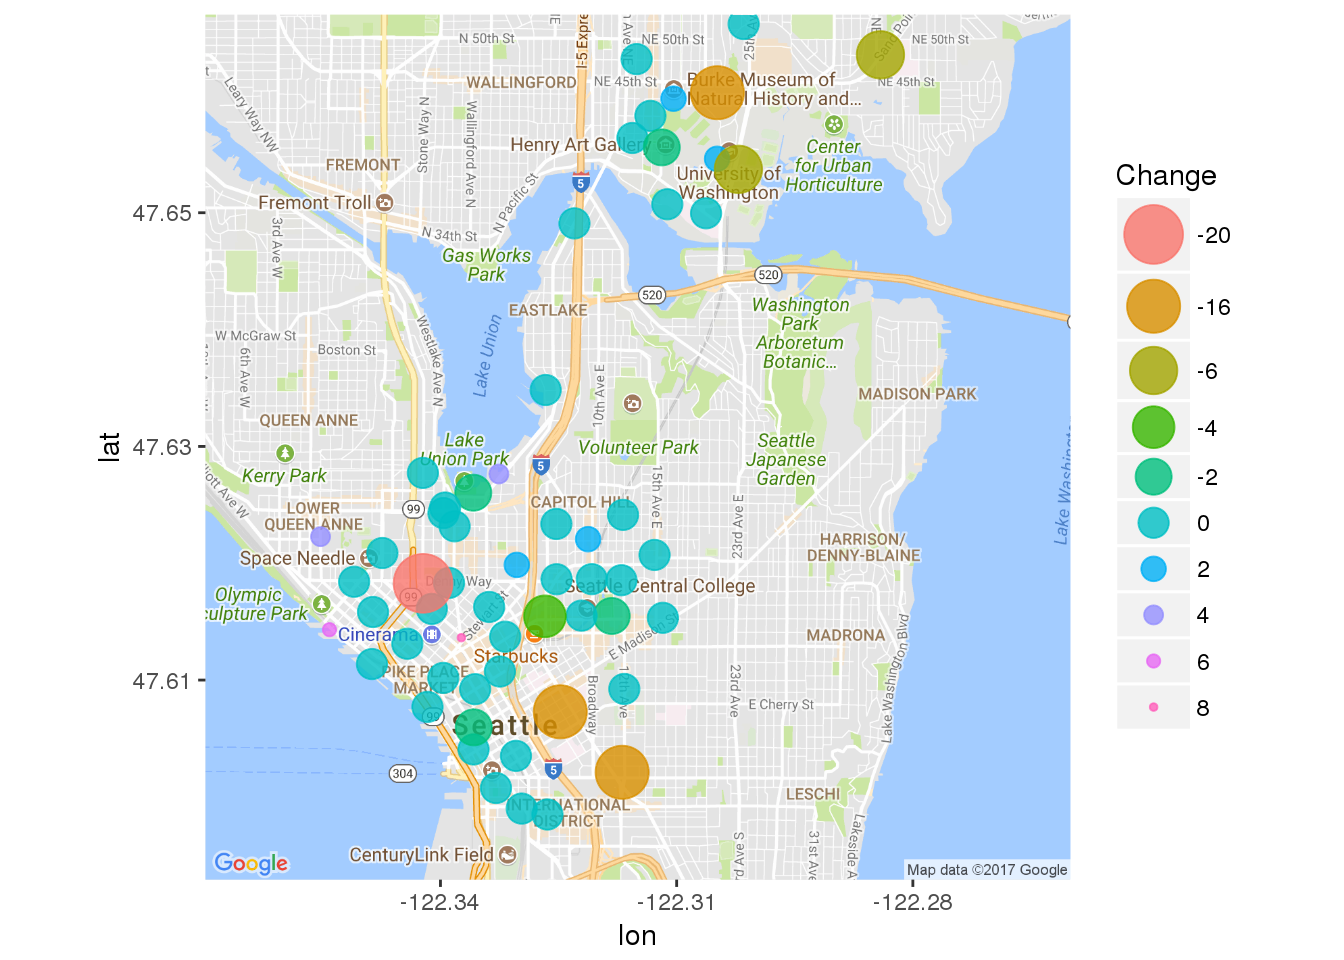
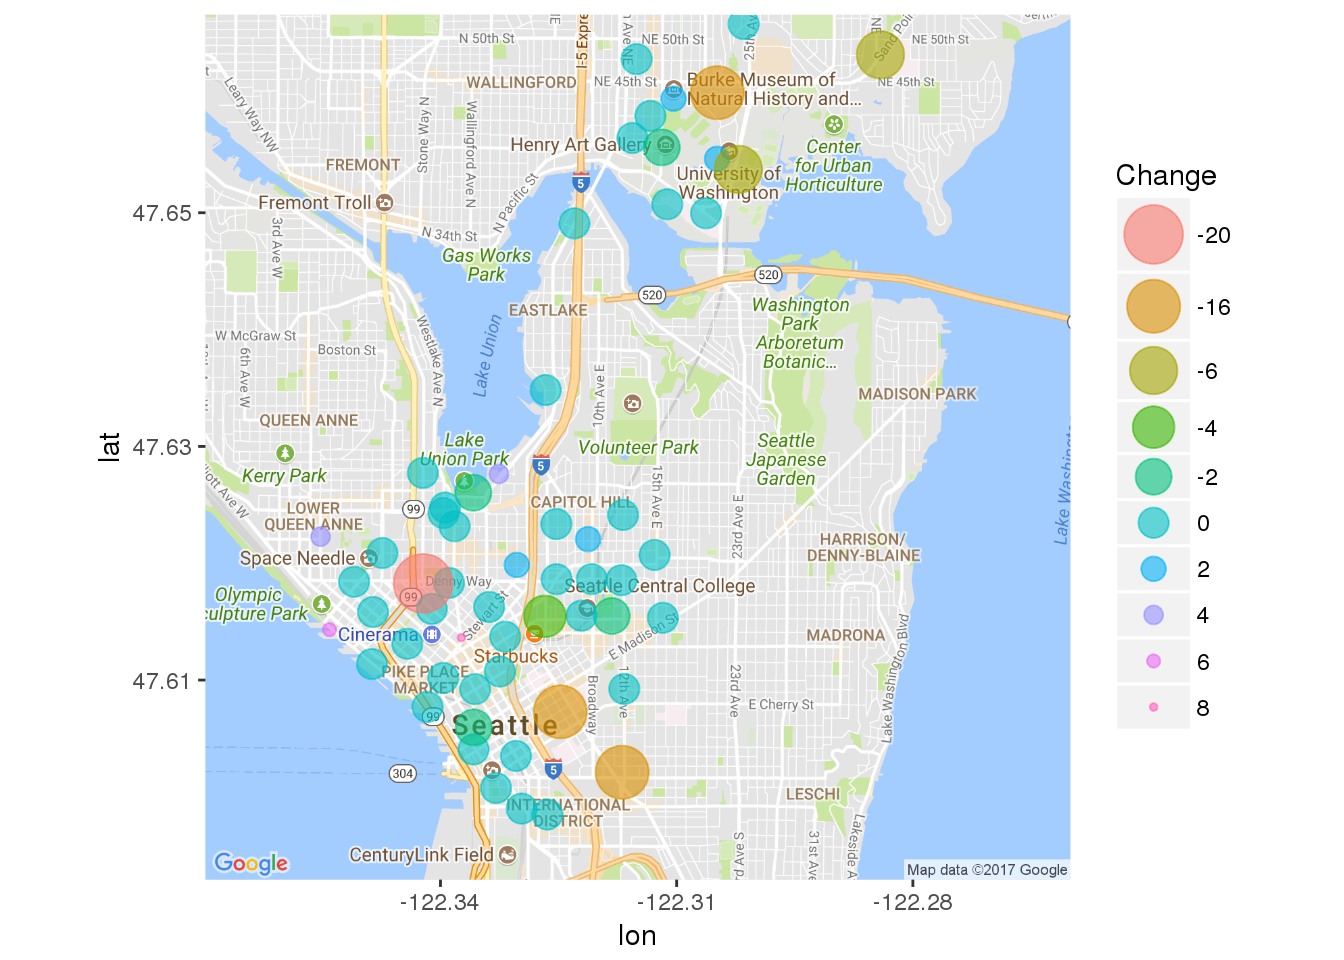
fuck this

diff --git a/alan.html b/alan.html
@@ -339,8 +339,6 @@ weather &lt;- read.csv(file = &quot;weather.csv&quot;, header = TRUE,
 <h2><span class="header-section-number">2.1</span> Exploring the Stations Dataset</h2>
 <p>Since the “Stations” dataset was the first one I imported, let’s start with a little exploration there. First of all, how many unique stations are we dealing with?</p>
 <pre class="r"><code>station %&gt;% summarise(n_distinct(station_id))</code></pre>
-<pre><code>Warning in summarise_impl(.data, dots): &#39;.Random.seed&#39; is not an integer
-vector but of type &#39;NULL&#39;, so ignored</code></pre>
 <pre><code>  n_distinct(station_id)
 1                     58</code></pre>
 <p>Wow! 58 different stations! Let’s take a quick peek at where they are located.</p>
@@ -387,6 +385,7 @@ NULL, : &#39;nclass&#39; not used when &#39;breaks&#39; is specified</code></pre
 <p><img src="alan_files/figure-html/unnamed-chunk-10-1.png" width="672" style="display: block; margin: auto;" /></p>
 <p>Well that’s weird, some of the stations have a dock count of 0. I’m assuming they didn’t start that way. Let’s calculate the change in dock count from station installation to August 31, 2016 and plot it on a map.</p>
 <p><strong>Change in Number of Bike Docks Per Station</strong></p>
+<p>Any stations with no change in number of docks are not shown here.</p>
 <pre class="r"><code>dock_change &lt;- station %&gt;% group_by(station_id) %&gt;% select(station_id, 
     long, lat, ends_with(&quot;dockcount&quot;)) %&gt;% mutate(dock_change = current_dockcount - 
     install_dockcount)
@@ -407,15 +406,34 @@ group_by()</code></pre>
 10     CBD-13 -122.3396 47.61019                18                18
 # ... with 48 more rows, and 1 more variables: dock_change &lt;int&gt;</code></pre>
 <pre class="r"><code>ggmap(mymap1) + geom_point(aes(x = long, y = lat, size = factor(dock_change), color = factor(dock_change)), 
-                           data = dock_change, alpha = 0.8) + 
+                           data = dock_change, alpha = 0.6) + 
 guides(color = guide_legend(title = &quot;Change&quot;), size = guide_legend(title = &quot;Change&quot;)) + 
 scale_size_manual(values = 10:1)</code></pre>
-<p><img src="alan_files/figure-html/unnamed-chunk-11-1.png" width="672" style="display: block; margin: auto;" /></p>
-<pre class="r"><code>ggmap(mymap1) + geom_point(aes(x = long, y = lat, size = factor(current_dockcount), color = factor(current_dockcount)), 
-                           data = dock_change, alpha = 0.8) + 
-guides(color = guide_legend(title = &quot;Current&quot;), size = guide_legend(title = &quot;Current&quot;)) + 
-scale_size_manual(values = 1:10)</code></pre>
+<p><img src="alan_files/figure-html/unnamed-chunk-11-1.png" width="672" style="display: block; margin: auto;" /> Wow! Looks like quite a few stations took away bike docks and none gained any. Perhaps those stations weren’t being used very frequently. We’ll have to look at that a bit later.</p>
+<p><strong>Current Station Size</strong></p>
+<p>I’m going to take one quick look at the current size of each station before moving on to the next dataset. Note: I did not include any stations that were closed as of August 31, 2016 in this map</p>
 <p><img src="alan_files/figure-html/unnamed-chunk-12-1.png" width="672" style="display: block; margin: auto;" /></p>
+<p>So it looks like the biggest stations tend to be on the outskirts of the rest. Where there are several stations in close proximity, there tend to be fewer bike docks at each station. That makes sense, logically speaking. If you go to a station and there is no bike to rent, you can easily go to another nearby, assuming there is another nearby. In areas where the stations are more secluded, it’s more important that there be bikes and open spaces readily available for users.</p>
+<p>Alright, I’m feeling good about exploring this dataset. Time to check out the trip dataset!</p>
+</div>
+</div>
+<div id="exploring-the-trips-dataset" class="section level1">
+<h1><span class="header-section-number">3</span> Exploring the Trips Dataset</h1>
+<p>It’s been a while since we’ve looked at the trip dataset, so let’s take another peek at it here.</p>
+<pre><code>&#39;data.frame&#39;:   50793 obs. of  12 variables:
+ $ trip_id          : int  431 432 433 434 435 436 437 438 439 440 ...
+ $ starttime        : chr  &quot;10/13/2014 10:31&quot; &quot;10/13/2014 10:32&quot; &quot;10/13/2014 10:33&quot; &quot;10/13/2014 10:34&quot; ...
+ $ stoptime         : chr  &quot;10/13/2014 10:48&quot; &quot;10/13/2014 10:48&quot; &quot;10/13/2014 10:48&quot; &quot;10/13/2014 10:48&quot; ...
+ $ bikeid           : chr  &quot;SEA00298&quot; &quot;SEA00195&quot; &quot;SEA00486&quot; &quot;SEA00333&quot; ...
+ $ tripduration     : num  986 926 884 866 924 ...
+ $ from_station_name: chr  &quot;2nd Ave &amp; Spring St&quot; &quot;2nd Ave &amp; Spring St&quot; &quot;2nd Ave &amp; Spring St&quot; &quot;2nd Ave &amp; Spring St&quot; ...
+ $ to_station_name  : chr  &quot;Occidental Park / Occidental Ave S &amp; S Washington St&quot; &quot;Occidental Park / Occidental Ave S &amp; S Washington St&quot; &quot;Occidental Park / Occidental Ave S &amp; S Washington St&quot; &quot;Occidental Park / Occidental Ave S &amp; S Washington St&quot; ...
+ $ from_station_id  : chr  &quot;CBD-06&quot; &quot;CBD-06&quot; &quot;CBD-06&quot; &quot;CBD-06&quot; ...
+ $ to_station_id    : chr  &quot;PS-04&quot; &quot;PS-04&quot; &quot;PS-04&quot; &quot;PS-04&quot; ...
+ $ usertype         : chr  &quot;Member&quot; &quot;Member&quot; &quot;Member&quot; &quot;Member&quot; ...
+ $ gender           : chr  &quot;Male&quot; &quot;Male&quot; &quot;Female&quot; &quot;Female&quot; ...
+ $ birthyear        : int  1960 1970 1988 1977 1971 1974 1978 1983 1974 1958 ...</code></pre>
+<p>Great, so there are quite a few things that we can potentially look at using this dataset by itself. Let’s start with the number of trips per day since Pronto! began opening bike stations. To do that, we need to recode our start date/times as POSIXct objects. We’ll use the <code>lubridate</code> package for this.</p>
 <pre class="r"><code>trip_2 &lt;- trip %&gt;% mutate(start_dt = mdy_hm(starttime), stop_dt = mdy_hm(stoptime))
 
 # Recode the dates
@@ -440,21 +458,41 @@ trip_2 %&gt;%
   labs(x = &quot;Date&quot;, y = &quot;Number of trips per day&quot;) + 
 
   theme_bw() + geom_smooth()</code></pre>
-<pre><code>`geom_smooth()` using method = &#39;loess&#39;</code></pre>
-<p><img src="alan_files/figure-html/unnamed-chunk-13-1.png" width="672" style="display: block; margin: auto;" /></p>
+<p><img src="alan_files/figure-html/unnamed-chunk-14-1.png" width="672" style="display: block; margin: auto;" /></p>
+<p>Great! Time to visualize the number of rides per day.</p>
+<p><img src="alan_files/figure-html/unnamed-chunk-15-1.png" width="672" style="display: block; margin: auto;" /></p>
+<p>Hmm, grouping by day is a little noisy. Perhaps we should try by month?</p>
+<div id="plotting-trips-per-month-by-season" class="section level3">
+<h3><span class="header-section-number">3.0.1</span> Plotting Trips Per Month (By Season)</h3>
+<p>First, we need to create a “Year-Month” variable</p>
 <pre class="r"><code>start_date_ym &lt;- trip_2 %&gt;% mutate(ym = paste(year(start_date), 
     month(start_date), sep = &quot;/&quot;), Season = ifelse(ym %in% c(&quot;2014/10&quot;, &quot;2014/11&quot;), &quot;Fall&quot;,
                                             ifelse(ym %in% c(&quot;2014/12&quot;,&quot;2015/1&quot;, &quot;2015/2&quot;), &quot;Winter&quot;,
                                             ifelse(ym %in% c(&quot;2015/3&quot;, &quot;2015/4&quot;, &quot;2015/5&quot;), &quot;Spring&quot;, &quot;Summer&quot;))))</code></pre>
-<pre class="r"><code>start_date_ym %&gt;%
-  group_by(ym, Season) %&gt;%
-  summarize(N=n()) %&gt;%
-  ggplot(aes(x = ym, y = N, col = Season)) + 
-  geom_point() +
-  geom_line(group = 1) +
-  theme_bw() +
-  labs(x = &quot;Date&quot;, y = &quot;Number of Trips (per month)&quot;)</code></pre>
-<p><img src="alan_files/figure-html/unnamed-chunk-15-1.png" width="672" style="display: block; margin: auto;" /></p>
+<p>Now plot. I think I’ll plot this by month but color it by season (where December, January, and February are “winter”, March, April, and May are “spring”, June, July, August are “summer”, and September, October, November are “autumn”)</p>
+<p><img src="alan_files/figure-html/unnamed-chunk-17-1.png" width="672" style="display: block; margin: auto;" /></p>
+<p>Well that intuitively makes sense. The number of trips taken per month increases in the spring, reaches a maximum in the summer, declines through the fall, remains fairly stable in the winter and then repeats.</p>
+</div>
+<div id="average-trip-duration" class="section level3">
+<h3><span class="header-section-number">3.0.2</span> Average Trip Duration</h3>
+<p>Great! I wonder how the average trip duration fluctuates over this time period.</p>
+<pre class="r"><code># Convert Trip Duration from Seconds to Minutes
+Trip_Duration_Month &lt;- start_date_ym %&gt;% mutate(trip_duration_min = tripduration/60) %&gt;% 
+    group_by(ym) %&gt;% select(ym, trip_duration_min) %&gt;% summarise(Avg = mean(trip_duration_min), 
+    sd = sd(trip_duration_min)) %&gt;% mutate(se = sd/sqrt(n()))</code></pre>
+<p>Now to plot the average trip duration (in minutes) (plus or minus standard error), with colors indicating season.</p>
+<pre class="r"><code>5+5</code></pre>
+<pre><code>[1] 10</code></pre>
+<p>There’s surprisingly not a huge range in trip durations here.</p>
+<p>The little bit of variation here makes logical sense. Longer trips were being taken in the spring and summer months rather than the fall and winter. It’s also notable that the spring and summer of 2016 may have shown fewer trips than the previous year, show a slight increase in average trip length.</p>
+<pre class="r"><code>trip_2$wd &lt;- wday(trip_2$start_date, label = TRUE)</code></pre>
+</div>
+<div id="number-of-trips-by-day-of-week" class="section level3">
+<h3><span class="header-section-number">3.0.3</span> Number of Trips by Day of Week</h3>
+<p>Now to plot the total number of trips by day of the week.</p>
+<p>Ok, so there are definitely more trips during the week than on the weekends. I wonder if this varies by season too.</p>
+<p><img src="alan_files/figure-html/unnamed-chunk-21-1.png" width="672" style="display: block; margin: auto;" /></p>
+<p>So it looks like usage is relatively consistent across seasons, at least as far as the number of trips are concerned.</p>
 </div>
 </div>
 
